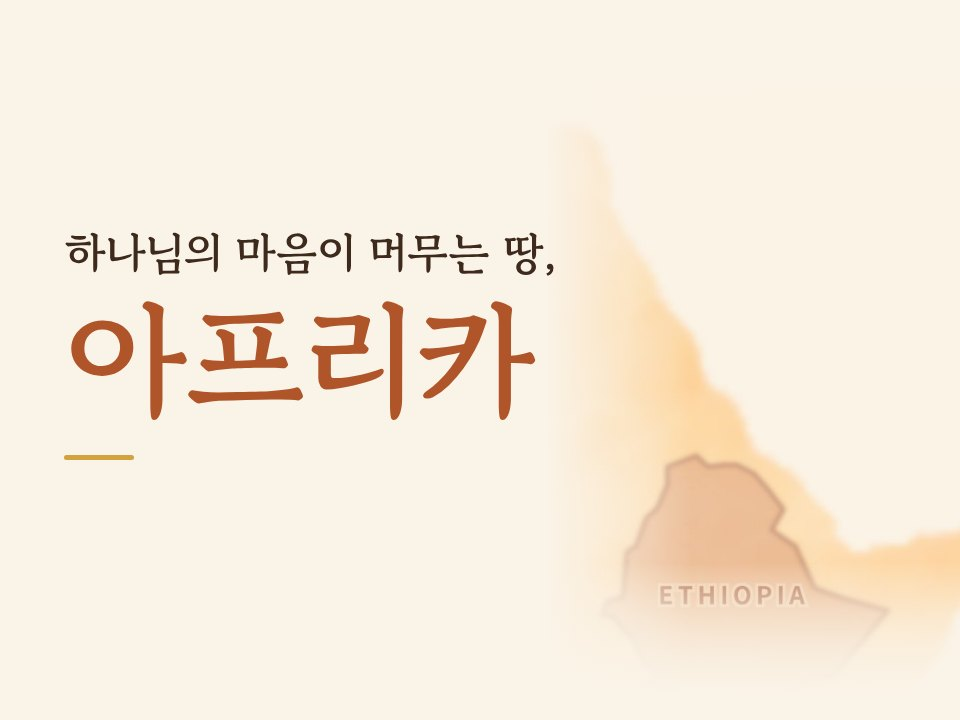
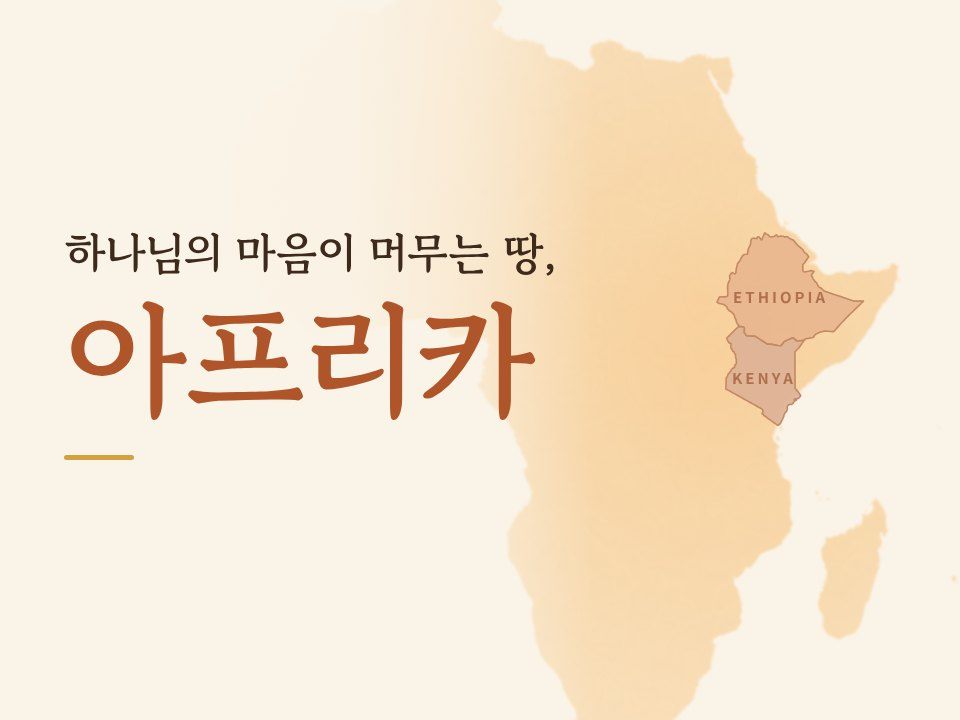
교회이야기 대표 소식을 아프리카·얼감감 두 장을 넘겨 보는 방식으로, 홈 교회이야기 카드 지도를 에티오피아·케냐가 보이게
Claude-Session: https://claude.ai/code/session_01PErPgG52gWW7ptHrDzYDzT

Changed region(s): [[0.4688, 0.0306, 1.0, 1.0]]

diff --git a/news.html b/news.html
@@ -28,7 +28,7 @@
 <link rel="preconnect" href="https://fonts.gstatic.com" crossorigin>
 <link rel="stylesheet" href="https://fonts.googleapis.com/css2?family=Gowun+Batang:wght@400;700&display=swap">
 <link rel="stylesheet" href="https://cdn.jsdelivr.net/gh/orioncactus/pretendard@v1.3.9/dist/web/static/pretendard-dynamic-subset.min.css">
-<link rel="stylesheet" href="style.css?v=20261112j">
+<link rel="stylesheet" href="style.css?v=20261112k">
 <script data-goatcounter="https://godswillhanachurch.goatcounter.com/count" async src="//gc.zgo.at/count.js"></script>
 </head>
 <body>
@@ -64,20 +64,39 @@
           <h2>소식을 전합니다</h2>
         </div>
       <div class="news-split news-v2">
-          <article class="feature" id="africa">
-            <a class="ph ph-wide ph-flat has-img af-fig" href="images/africa-poster.jpg" target="_blank" rel="noopener" aria-label="아프리카 선교 특별 시리즈 포스터 크게 보기"><img src="images/news-africa.jpg" alt="아프리카 선교 특별 시리즈: 에티오피아 유데비 선교사 11월 15일, 케냐 이관영 선교사 11월 22일" loading="lazy" decoding="async"><span class="af-fig-btn">포스터 크게 보기</span></a>
-            <div class="feature-body">
-              <p class="cats"><span>선교소식</span></p>
-              <h3>아프리카 선교 특별 시리즈 · 하나님의 마음이 머무는 땅, 아프리카</h3>
-              <p>에티오피아와 케냐에서 일하시는 하나님의 이야기를 함께 듣습니다. 선교사님들을 통해 하나님의 말씀을 듣고, 선교의 기쁨과 도전을 나누는 자리에 여러분을 초대합니다.</p>
-              <ul class="af-news-list">
-                <li><b>11월 15일<i> (주일)</i></b><span>에티오피아 · 유데비 선교사</span></li>
-                <li><b>11월 22일<i> (주일)</i></b><span>케냐 · 이관영 선교사</span></li>
-                <li><b>1부</b><span>주일예배 설교 · <span class="nw">오전 11시 45분</span></span></li>
-                <li><b>2부</b><span>선교 이야기 나눔과 Q&amp;A · <span class="nw">오후 2시 30분</span></span></li>
-              </ul>
-              <p>예배의 감동이 현장의 이야기로 이어지는 선교 나눔의 시간에 함께해 주세요.</p>
-              <time datetime="2026-11-12">2026-11-12</time>
+          <!-- 대표 소식: 배너처럼 넘겨 보기 (.fs) -->
+          <article class="feature fs" aria-roledescription="carousel" aria-label="대표 소식">
+            <div class="fs-slides">
+            <div class="fs-slide on" id="africa" aria-roledescription="slide" aria-label="1 / 2">
+              <a class="ph ph-wide ph-flat has-img af-fig" href="images/africa-poster.jpg" target="_blank" rel="noopener" aria-label="아프리카 선교 특별 시리즈 포스터 크게 보기"><img src="images/news-africa.jpg" alt="아프리카 선교 특별 시리즈: 에티오피아 유데비 선교사 11월 15일, 케냐 이관영 선교사 11월 22일" loading="lazy" decoding="async"><span class="af-fig-btn">포스터 크게 보기</span></a>
+              <div class="feature-body">
+                <p class="cats"><span>선교소식</span></p>
+                <h3>아프리카 선교 특별 시리즈 · 하나님의 마음이 머무는 땅, 아프리카</h3>
+                <p>에티오피아와 케냐에서 일하시는 하나님의 이야기를 함께 듣습니다. 선교사님들을 통해 하나님의 말씀을 듣고, 선교의 기쁨과 도전을 나누는 자리에 여러분을 초대합니다.</p>
+                <ul class="af-news-list">
+                  <li><b>11월 15일<i> (주일)</i></b><span>에티오피아 · 유데비 선교사</span></li>
+                  <li><b>11월 22일<i> (주일)</i></b><span>케냐 · 이관영 선교사</span></li>
+                  <li><b>1부</b><span>주일예배 설교 · <span class="nw">오전 11시 45분</span></span></li>
+                  <li><b>2부</b><span>선교 이야기 나눔과 Q&amp;A · <span class="nw">오후 2시 30분</span></span></li>
+                </ul>
+                <p>예배의 감동이 현장의 이야기로 이어지는 선교 나눔의 시간에 함께해 주세요.</p>
+                <time datetime="2026-11-12">2026-11-12</time>
+              </div>
+            </div>
+            <div class="fs-slide" aria-roledescription="slide" aria-label="2 / 2">
+              <figure class="ph ph-wide ph-flat has-img ph-duo"><img src="images/news-thanks.jpg" alt="십자가 앞에 놓인 추수감사 헌물: 쌀, 단호박, 감, 두유와 간식" loading="lazy" decoding="async"><img src="images/news-thanks-2.jpg" alt="탈북민 가정에 전할 감, 과자, 견과류를 담은 장바구니들" loading="lazy" decoding="async"></figure>
+              <div class="feature-body">
+                <p class="cats"><span>선교소식</span></p>
+                <h3>얼감감 프로젝트, 감사의 마음을 나눕니다</h3>
+                <p>얼감감 프로젝트에 참여해 주신 모든 분들께 감사드립니다.<br>모아진 귀한 과일과 식재료들을 탈북민들에게 잘 전해드렸습니다.</p>
+                <time datetime="2026-11-06">2026-11-06</time>
+              </div>
+            </div>
+            </div>
+            <div class="fs-nav">
+              <button type="button" class="fs-prev" aria-label="이전 소식">‹</button>
+              <span class="fs-dots"><button type="button" class="on" aria-label="1번 소식: 아프리카 선교 특별 시리즈"></button><button type="button" aria-label="2번 소식: 얼감감 프로젝트"></button></span>
+              <button type="button" class="fs-next" aria-label="다음 소식">›</button>
             </div>
           </article>
         <div class="news-side">
@@ -202,7 +221,7 @@
   <a href="#bulletin-list">주보·말씀</a>
 </nav>
 
-<script src="site.js?v=20261112"></script>
+<script src="site.js?v=20261112b"></script>
 <script src="cal.js?v=20261105i" defer></script>
 </body>
 </html>

diff --git a/site.js b/site.js
@@ -130,3 +130,23 @@ if ('serviceWorker' in navigator) {
     .then(function(d){ if (d && d.count) { el.textContent = d.count; el.closest('.visits').hidden = false; } })
     .catch(function(){});
 })();
+
+/* 교회이야기 대표 소식: 배너처럼 넘겨 보기 */
+(function(){
+  document.querySelectorAll('.fs').forEach(function(box){
+    var sl=[].slice.call(box.querySelectorAll('.fs-slide')), dots=[].slice.call(box.querySelectorAll('.fs-dots button')), i=0, t=null;
+    if(sl.length<2) return;
+    function show(n){i=(n+sl.length)%sl.length; sl.forEach(function(s,k){s.classList.toggle('on',k===i); if(k===i) s.removeAttribute('inert'); else s.setAttribute('inert','')}); dots.forEach(function(d,k){d.classList.toggle('on',k===i); d.setAttribute('aria-current',k===i?'true':'false')})}
+    function play(){stop(); if(!matchMedia('(prefers-reduced-motion: reduce)').matches&&!matchMedia('(max-width:900px)').matches) t=setInterval(function(){show(i+1)},7000)}
+    function stop(){if(t){clearInterval(t); t=null}}
+    box.querySelector('.fs-prev').onclick=function(){show(i-1); play()};
+    box.querySelector('.fs-next').onclick=function(){show(i+1); play()};
+    dots.forEach(function(d,k){d.onclick=function(){show(k); play()}});
+    box.addEventListener('mouseenter',stop); box.addEventListener('mouseleave',play);
+    box.addEventListener('focusin',stop);
+    var sx=null; box.addEventListener('touchstart',function(e){sx=e.touches[0].clientX},{passive:true});
+    box.addEventListener('touchend',function(e){if(sx===null)return; var dx=e.changedTouches[0].clientX-sx; sx=null; if(Math.abs(dx)>40){show(dx<0?i+1:i-1); play()}});
+    var h=location.hash&&box.querySelector(location.hash); var start=0; sl.forEach(function(s,k){if(s===h) start=k});
+    show(start); play();
+  });
+})();

diff --git a/style.css b/style.css
@@ -1476,3 +1476,21 @@ i.k-pastor{background:#4f8a8b!important}
 .past-open:hover{color:var(--pine);text-decoration:underline;text-underline-offset:3px}
 .past-open:focus-visible{outline:2px solid var(--amber);outline-offset:3px;border-radius:4px}
 .past-hint{font-family:var(--f-body);font-size:var(--t-sm);font-weight:600;color:#8a7140;white-space:nowrap}
+
+/* 교회이야기 대표 소식 넘겨 보기 (.fs) */
+.fs{position:relative}
+.fs-slides{display:grid;flex:1 1 auto;min-height:0}
+.fs-slide{grid-area:1/1;display:flex;flex-direction:column;opacity:0;visibility:hidden;transition:opacity .6s ease,visibility .6s;scroll-margin-top:110px}
+.fs-slide.on{opacity:1;visibility:visible}
+.news-v2 .fs-slide>.ph{flex:1 1 auto;margin:0!important;aspect-ratio:auto!important;min-height:260px}
+.fs-slide .feature-body{flex:none}
+@media (max-width:900px){.news-v2 .fs-slide>.ph{aspect-ratio:16/9!important;min-height:0;flex:none}}
+.fs-nav{display:flex;align-items:center;justify-content:center;gap:14px;padding:.2rem 0 1rem}
+.fs-nav>button{all:unset;cursor:pointer;width:32px;height:32px;display:grid;place-items:center;border-radius:50%;border:1px solid var(--line);color:var(--pine);font-size:1.3rem;line-height:1;background:var(--bg)}
+.fs-nav>button:hover{border-color:var(--pine)}
+.fs-nav>button:focus-visible,.fs-dots button:focus-visible{outline:2px solid var(--amber);outline-offset:2px}
+.fs-dots{display:flex;gap:8px}
+.fs-dots button{all:unset;cursor:pointer;width:9px;height:9px;border-radius:50%;border:1.5px solid var(--pine);box-sizing:border-box}
+.fs-dots button.on{background:var(--pine)}
+@media (prefers-reduced-motion:reduce){.fs-slide{transition:none}}
+@media (max-width:900px){.fs-slide{display:none}.fs-slide.on{display:flex}}

diff --git a/sw.js b/sw.js
@@ -1,9 +1,9 @@
 // 높은뜻 하나되는 교회 — 홈 화면 앱용 서비스 워커
 // 항상 인터넷의 최신 내용을 먼저 보여 주고(브라우저 임시 저장도 건너뜀), 인터넷이 끊겼을 때만 저장해 둔 화면을 보여 줍니다.
-const CACHE = 'hana-v58';
+const CACHE = 'hana-v59';
 const CORE = ['/', '/index.html', '/greeting.html', '/about.html', '/news.html', '/mission.html',
   '/nk.html', '/welcome.html', '/en.html',
-  '/style.css?v=20261112j', '/site.js?v=20261112', '/logo.svg', '/logo-header.svg', '/logo-header-m.svg', '/icons/icon-192.png'];
+  '/style.css?v=20261112k', '/site.js?v=20261112b', '/logo.svg', '/logo-header.svg', '/logo-header-m.svg', '/icons/icon-192.png'];
 
 self.addEventListener('install', e => {
   e.waitUntil(caches.open(CACHE).then(c => c.addAll(CORE)).catch(() => {}));

diff --git a/about.html b/about.html
@@ -28,7 +28,7 @@
 <link rel="preconnect" href="https://fonts.gstatic.com" crossorigin>
 <link rel="stylesheet" href="https://fonts.googleapis.com/css2?family=Gowun+Batang:wght@400;700&display=swap">
 <link rel="stylesheet" href="https://cdn.jsdelivr.net/gh/orioncactus/pretendard@v1.3.9/dist/web/static/pretendard-dynamic-subset.min.css">
-<link rel="stylesheet" href="style.css?v=20261112j">
+<link rel="stylesheet" href="style.css?v=20261112k">
 <script data-goatcounter="https://godswillhanachurch.goatcounter.com/count" async src="//gc.zgo.at/count.js"></script>
 </head>
 <body>
@@ -141,6 +141,6 @@
   <a href="news.html#bulletin-list">주보·말씀</a>
 </nav>
 
-<script src="site.js?v=20261112"></script>
+<script src="site.js?v=20261112b"></script>
 </body>
 </html>

diff --git a/en.html b/en.html
@@ -28,7 +28,7 @@
 <link rel="preconnect" href="https://fonts.gstatic.com" crossorigin>
 <link rel="stylesheet" href="https://fonts.googleapis.com/css2?family=Gowun+Batang:wght@400;700&display=swap">
 <link rel="stylesheet" href="https://cdn.jsdelivr.net/gh/orioncactus/pretendard@v1.3.9/dist/web/static/pretendard-dynamic-subset.min.css">
-<link rel="stylesheet" href="style.css?v=20261112j">
+<link rel="stylesheet" href="style.css?v=20261112k">
 <script data-goatcounter="https://godswillhanachurch.goatcounter.com/count" async src="//gc.zgo.at/count.js"></script>
 </head>
 <body>
@@ -122,6 +122,6 @@
   <a href="news.html#bulletin-list">주보·말씀</a>
 </nav>
 
-<script src="site.js?v=20261112"></script>
+<script src="site.js?v=20261112b"></script>
 </body>
 </html>

diff --git a/greeting.html b/greeting.html
@@ -28,7 +28,7 @@
 <link rel="preconnect" href="https://fonts.gstatic.com" crossorigin>
 <link rel="stylesheet" href="https://fonts.googleapis.com/css2?family=Gowun+Batang:wght@400;700&display=swap">
 <link rel="stylesheet" href="https://cdn.jsdelivr.net/gh/orioncactus/pretendard@v1.3.9/dist/web/static/pretendard-dynamic-subset.min.css">
-<link rel="stylesheet" href="style.css?v=20261112j">
+<link rel="stylesheet" href="style.css?v=20261112k">
 <script data-goatcounter="https://godswillhanachurch.goatcounter.com/count" async src="//gc.zgo.at/count.js"></script>
 </head>
 <body>
@@ -105,6 +105,6 @@
   <a href="news.html#bulletin-list">주보·말씀</a>
 </nav>
 
-<script src="site.js?v=20261112"></script>
+<script src="site.js?v=20261112b"></script>
 </body>
 </html>

diff --git a/index.html b/index.html
@@ -28,7 +28,7 @@
 <link rel="preconnect" href="https://fonts.gstatic.com" crossorigin>
 <link rel="stylesheet" href="https://fonts.googleapis.com/css2?family=Gowun+Batang:wght@400;700&display=swap">
 <link rel="stylesheet" href="https://cdn.jsdelivr.net/gh/orioncactus/pretendard@v1.3.9/dist/web/static/pretendard-dynamic-subset.min.css">
-<link rel="stylesheet" href="style.css?v=20261112j">
+<link rel="stylesheet" href="style.css?v=20261112k">
 <script data-goatcounter="https://godswillhanachurch.goatcounter.com/count" async src="//gc.zgo.at/count.js"></script>
 </head>
 <body>
@@ -253,6 +253,6 @@
   <a href="news.html#bulletin-list">주보·말씀</a>
 </nav>
 
-<script src="site.js?v=20261112"></script>
+<script src="site.js?v=20261112b"></script>
 </body>
 </html>

diff --git a/mission.html b/mission.html
@@ -28,7 +28,7 @@
 <link rel="preconnect" href="https://fonts.gstatic.com" crossorigin>
 <link rel="stylesheet" href="https://fonts.googleapis.com/css2?family=Gowun+Batang:wght@400;700&display=swap">
 <link rel="stylesheet" href="https://cdn.jsdelivr.net/gh/orioncactus/pretendard@v1.3.9/dist/web/static/pretendard-dynamic-subset.min.css">
-<link rel="stylesheet" href="style.css?v=20261112j">
+<link rel="stylesheet" href="style.css?v=20261112k">
 <script data-goatcounter="https://godswillhanachurch.goatcounter.com/count" async src="//gc.zgo.at/count.js"></script>
 </head>
 <body>
@@ -154,6 +154,6 @@
   <a href="news.html#bulletin-list">주보·말씀</a>
 </nav>
 
-<script src="site.js?v=20261112"></script>
+<script src="site.js?v=20261112b"></script>
 </body>
 </html>

diff --git a/nk.html b/nk.html
@@ -28,7 +28,7 @@
 <link rel="preconnect" href="https://fonts.gstatic.com" crossorigin>
 <link rel="stylesheet" href="https://fonts.googleapis.com/css2?family=Gowun+Batang:wght@400;700&display=swap">
 <link rel="stylesheet" href="https://cdn.jsdelivr.net/gh/orioncactus/pretendard@v1.3.9/dist/web/static/pretendard-dynamic-subset.min.css">
-<link rel="stylesheet" href="style.css?v=20261112j">
+<link rel="stylesheet" href="style.css?v=20261112k">
 <script data-goatcounter="https://godswillhanachurch.goatcounter.com/count" async src="//gc.zgo.at/count.js"></script>
 </head>
 <body>
@@ -195,6 +195,6 @@
   <a href="news.html#bulletin-list">주보·말씀</a>
 </nav>
 
-<script src="site.js?v=20261112"></script>
+<script src="site.js?v=20261112b"></script>
 </body>
 </html>

diff --git a/welcome.html b/welcome.html
@@ -28,7 +28,7 @@
 <link rel="preconnect" href="https://fonts.gstatic.com" crossorigin>
 <link rel="stylesheet" href="https://fonts.googleapis.com/css2?family=Gowun+Batang:wght@400;700&display=swap">
 <link rel="stylesheet" href="https://cdn.jsdelivr.net/gh/orioncactus/pretendard@v1.3.9/dist/web/static/pretendard-dynamic-subset.min.css">
-<link rel="stylesheet" href="style.css?v=20261112j">
+<link rel="stylesheet" href="style.css?v=20261112k">
 <script data-goatcounter="https://godswillhanachurch.goatcounter.com/count" async src="//gc.zgo.at/count.js"></script>
 </head>
 <body>
@@ -124,6 +124,6 @@
   <a href="news.html#bulletin-list">주보·말씀</a>
 </nav>
 
-<script src="site.js?v=20261112"></script>
+<script src="site.js?v=20261112b"></script>
 </body>
 </html>

diff --git a/CLAUDE.md b/CLAUDE.md
@@ -82,7 +82,7 @@
 - 브릿지 사이트는 경로 앞에 "bridge"를 붙여 같은 계정에 집계합니다.
 
 ## 교회이야기 대표 소식 (2026-11-12)
-- 대표 소식(news.html `article.feature#africa`)은 아프리카 선교 특별 시리즈(11/15 에티오피아 유데비 선교사, 11/22 케냐 이관영 선교사). 홈 배너 2번(.s-af)을 누르면 news.html#africa로 이동. 홈 '교회이야기' 바로가기 카드 사진은 images/explore-africa.jpg.
+- 대표 소식(news.html `article.feature.fs`)은 배너처럼 넘겨 보는 두 장: ① `#africa` 아프리카 선교 특별 시리즈(11/15 에티오피아 유데비 선교사, 11/22 케냐 이관영 선교사). 홈 배너 2번(.s-af)을 누르면 news.html#africa로 이동. ② 얼감감 프로젝트(지난 소식). 넘김 코드는 site.js 끝(.fs), 휴대폰에선 자동 넘김 없음. 홈 '교회이야기' 바로가기 카드 사진은 images/explore-africa.jpg(아프리카 지도: 에티오피아·케냐 강조).
 - 소식 목록 맨 끝의 `article.item-past`(얼감감 프로젝트)는 누르면 사진·내용이 열리는 지난 소식. 주보 예약 작업이 소식 3개를 바꿀 때도 이 줄은 남겨 둠. 처리 코드는 site.js의 앨범 보기(.past-open).
 
 ## 하지 말 것 / 보류 중
